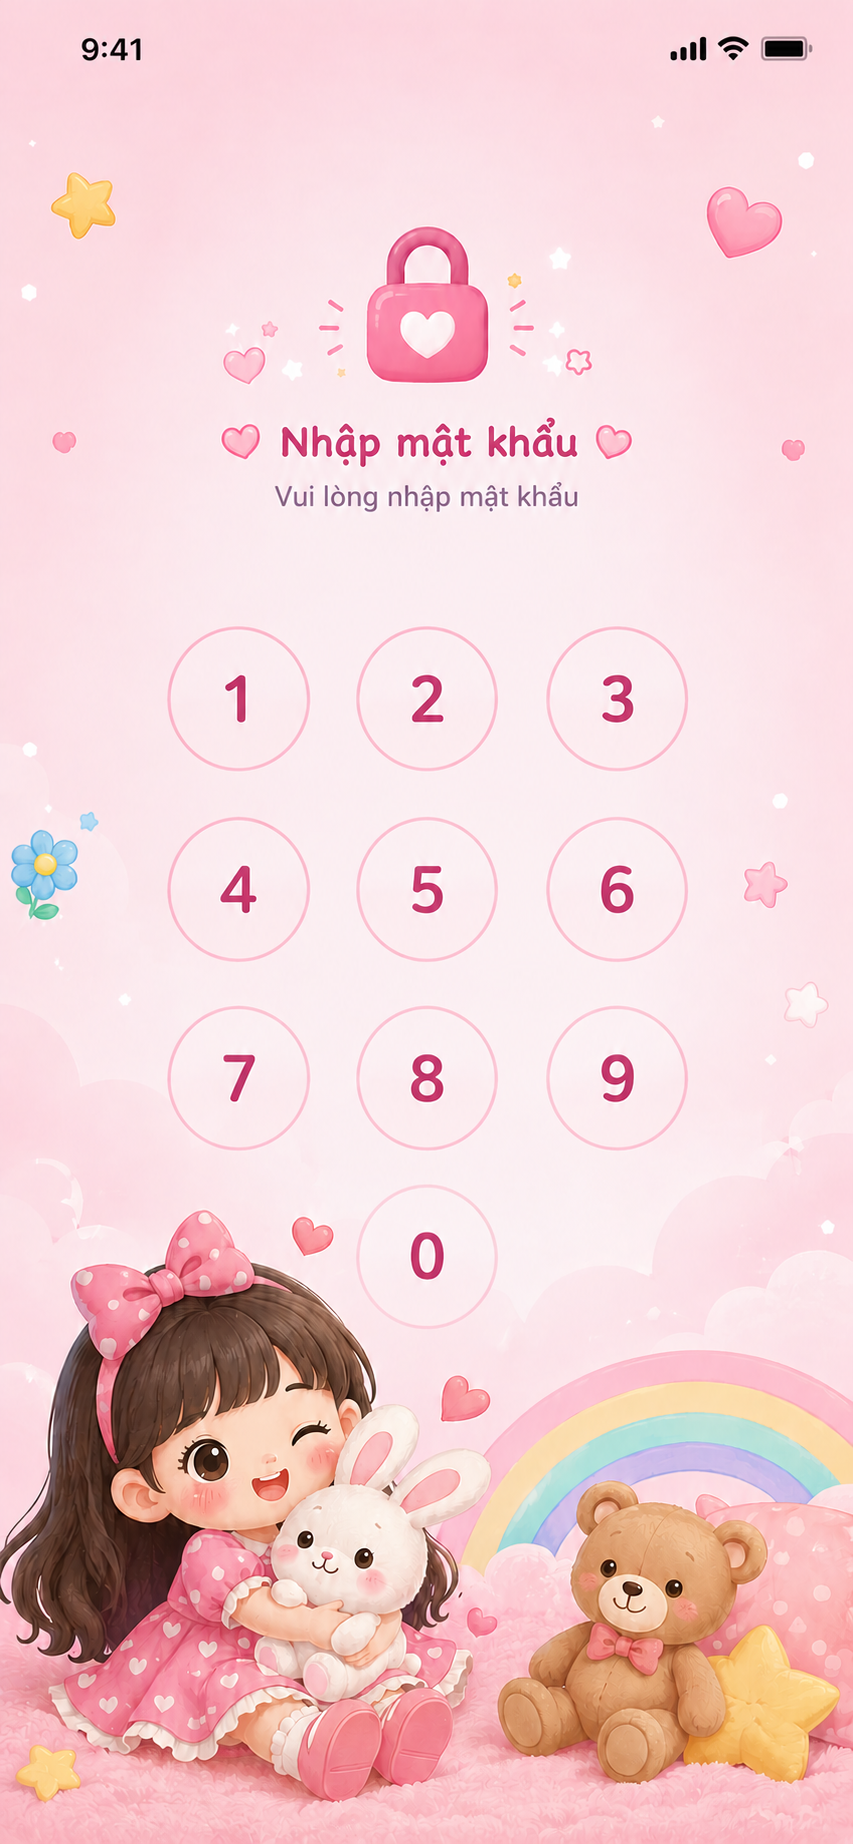
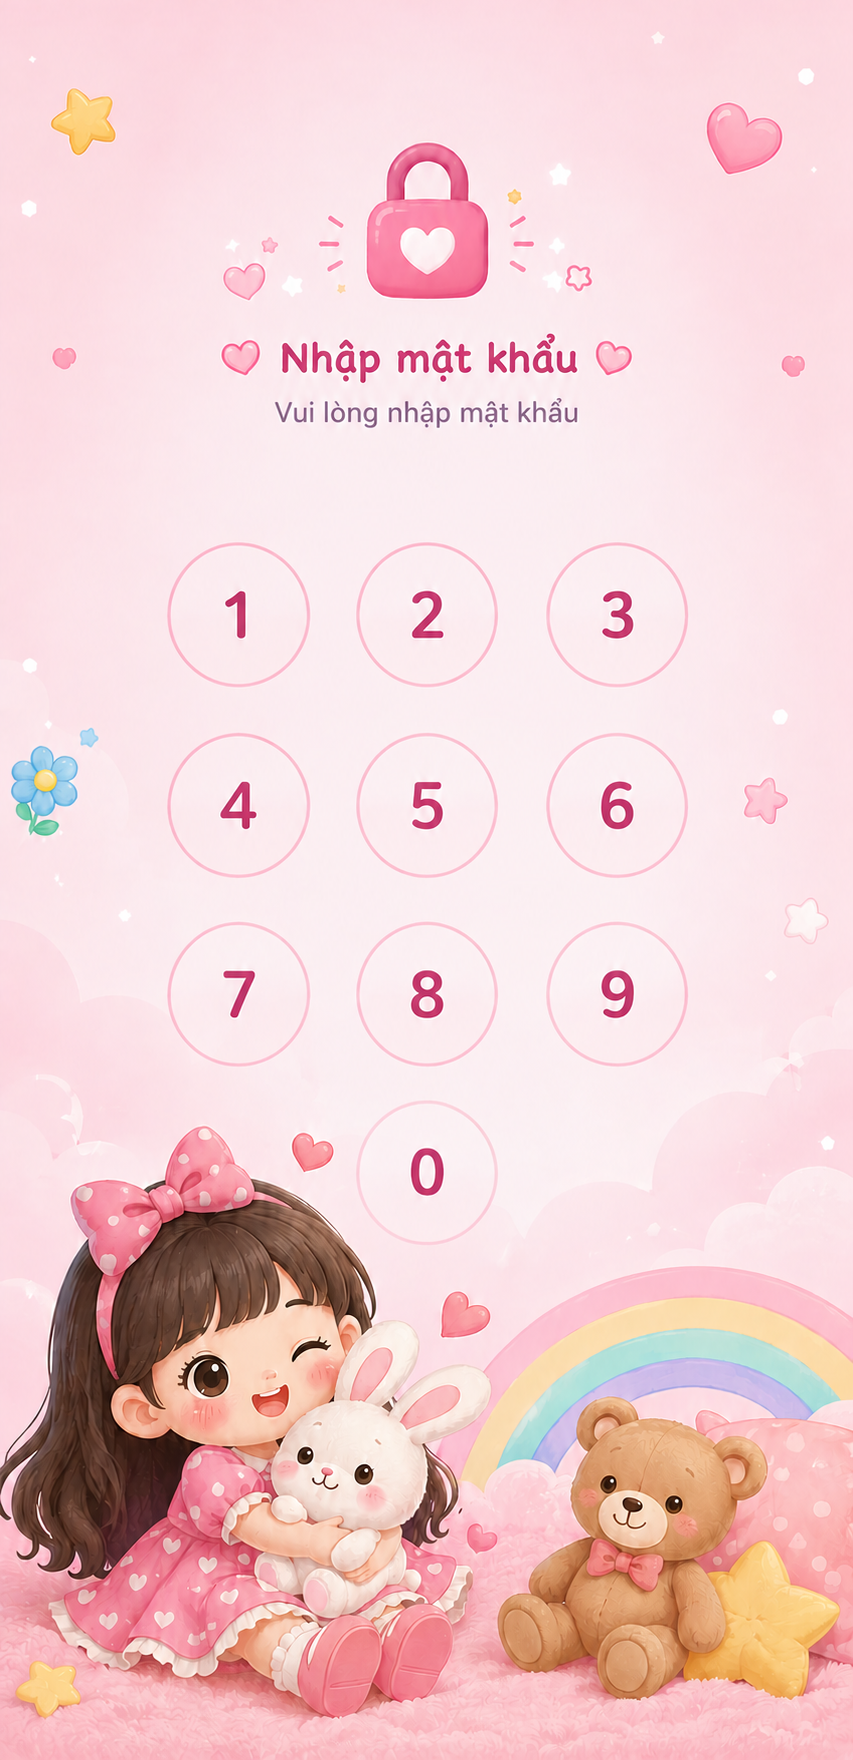
cap nhat lai man hinh khoa

diff --git a/index.html b/index.html
@@ -42,7 +42,7 @@ Error generating stack: `+i.message+`
           20%,60% { transform: translateX(-8px); }
           40%,80% { transform: translateX(8px); }
         }
-      `))}var bp={nam:{image:"pin-bg-nam.png",dotColor:"#d6377e",cancelColor:"#c2467e",coverZone:null,dotsTop:"30%",dotsGap:22,dotSize:18,keyZones:[{k:"1",left:"19%",top:"33.5%",w:"16%",h:"7%"},{k:"2",left:"42%",top:"33.5%",w:"16%",h:"7%"},{k:"3",left:"65%",top:"33.5%",w:"16%",h:"7%"},{k:"4",left:"19%",top:"43.5%",w:"16%",h:"7%"},{k:"5",left:"42%",top:"43.5%",w:"16%",h:"7%"},{k:"6",left:"65%",top:"43.5%",w:"16%",h:"7%"},{k:"7",left:"19%",top:"53.5%",w:"16%",h:"7%"},{k:"8",left:"42%",top:"53.5%",w:"16%",h:"7%"},{k:"9",left:"65%",top:"53.5%",w:"16%",h:"7%"},{k:"0",left:"42%",top:"63.5%",w:"16%",h:"7%"}],delZone:{right:"5%",bottom:"2%",w:"14%",h:"5%"}},meo:{image:"pin-bg-meo.png",dotColor:"#1b4dab",cancelColor:"#1b4dab",coverZone:null,dotsTop:"33.5%",dotsGap:22,dotSize:18,keyZones:[{k:"1",left:"19%",top:"40.5%",w:"16%",h:"7%"},{k:"2",left:"42%",top:"40.5%",w:"16%",h:"7%"},{k:"3",left:"65%",top:"40.5%",w:"16%",h:"7%"},{k:"4",left:"19%",top:"49.5%",w:"16%",h:"7%"},{k:"5",left:"42%",top:"49.5%",w:"16%",h:"7%"},{k:"6",left:"65%",top:"49.5%",w:"16%",h:"7%"},{k:"7",left:"19%",top:"58.5%",w:"16%",h:"7%"},{k:"8",left:"42%",top:"58.5%",w:"16%",h:"7%"},{k:"9",left:"65%",top:"58.5%",w:"16%",h:"7%"},{k:"0",left:"42%",top:"67.5%",w:"16%",h:"7%"}],delZone:{right:"5%",bottom:"2%",w:"14%",h:"5%"}}};function Hp({kid:e,length:n=4,onComplete:t,onCancel:r,errorShake:o}){let[i,l]=(0,u.useState)(""),s=bp[e];(0,u.useEffect)(()=>{l("")},[o]);let a=v=>{if(i.length>=n)return;let y=i+v;l(y),y.length===n&&(setTimeout(()=>t(y),120),setTimeout(()=>l(""),350))},f=()=>l(v=>v.slice(0,-1));return u.default.createElement("div",{style:{position:"relative",width:"100%",height:"100%"}},u.default.createElement("img",{src:s.image,alt:"Nh\u1EADp m\u1EADt kh\u1EA9u",style:{width:"100%",height:"100%",objectFit:"cover",display:"block"}}),r&&u.default.createElement("button",{onClick:r,style:{position:"absolute",left:"4%",top:"4%",background:"rgba(255,255,255,0.7)",border:"none",borderRadius:20,padding:"7px 14px",fontSize:12,fontWeight:800,color:s.cancelColor,cursor:"pointer"}},"\u2190 Quay l\u1EA1i"),s.coverZone&&u.default.createElement("div",{style:{position:"absolute",left:s.coverZone.left,top:s.coverZone.top,width:s.coverZone.width,height:s.coverZone.height,backdropFilter:"blur(8px)",WebkitBackdropFilter:"blur(8px)",background:s.coverZone.color}}),u.default.createElement("div",{className:o?"fb-shake":"",style:{position:"absolute",left:"50%",top:s.dotsTop,transform:"translate(-50%, -50%)",display:"flex",gap:s.dotsGap??20}},Array.from({length:n}).map((v,y)=>u.default.createElement("div",{key:y,style:{width:s.dotSize,height:s.dotSize,borderRadius:"50%",background:y<i.length?s.dotColor:"transparent",border:`2.5px solid ${s.dotColor}`}}))),s.keyZones.map(v=>u.default.createElement("button",{key:v.k,onClick:()=>a(v.k),"aria-label":`So ${v.k}`,style:{position:"absolute",left:v.left,top:v.top,width:v.w,height:v.h,background:"transparent",border:"none",cursor:"pointer",padding:0,borderRadius:"50%"}})),u.default.createElement("button",{onClick:f,"aria-label":"Xoa",style:{position:"absolute",right:s.delZone.right,bottom:s.delZone.bottom,width:s.delZone.w,height:s.delZone.h,background:"transparent",border:"none",cursor:"pointer",padding:0}}),u.default.createElement("style",null,`
+      `))}var bp={nam:{image:"pin-bg-nam.png",dotColor:"#d6377e",cancelColor:"#c2467e",coverZone:null,dotsTop:"22%",dotsGap:22,dotSize:18,keyZones:[{k:"1",left:"18.9%",top:"31.2%",w:"16%",h:"7.5%"},{k:"2",left:"42%",top:"31.1%",w:"16%",h:"7.5%"},{k:"3",left:"65.4%",top:"31.2%",w:"16%",h:"7.5%"},{k:"4",left:"18.9%",top:"42%",w:"16%",h:"7.5%"},{k:"5",left:"42%",top:"42%",w:"16%",h:"7.5%"},{k:"6",left:"65.4%",top:"42%",w:"16%",h:"7.5%"},{k:"7",left:"18.9%",top:"52.7%",w:"16%",h:"7.5%"},{k:"8",left:"42%",top:"52.7%",w:"16%",h:"7.5%"},{k:"9",left:"65.3%",top:"52.7%",w:"16%",h:"7.5%"},{k:"0",left:"42%",top:"62.9%",w:"16%",h:"7.5%"}],delZone:{right:"5%",bottom:"2%",w:"14%",h:"5%"}},meo:{image:"pin-bg-meo.png",dotColor:"#1b4dab",cancelColor:"#1b4dab",coverZone:null,dotsTop:"30%",dotsGap:22,dotSize:18,keyZones:[{k:"1",left:"18.9%",top:"39.2%",w:"15%",h:"7%"},{k:"2",left:"41.8%",top:"39.2%",w:"15%",h:"7%"},{k:"3",left:"64.3%",top:"39.2%",w:"15%",h:"7%"},{k:"4",left:"18.9%",top:"48.6%",w:"15%",h:"7%"},{k:"5",left:"41.8%",top:"48.6%",w:"15%",h:"7%"},{k:"6",left:"64.5%",top:"48.4%",w:"15%",h:"7%"},{k:"7",left:"18.8%",top:"57.9%",w:"15%",h:"7%"},{k:"8",left:"41.8%",top:"57.9%",w:"15%",h:"7%"},{k:"9",left:"64.3%",top:"57.8%",w:"15%",h:"7%"},{k:"0",left:"41.9%",top:"66.6%",w:"15%",h:"7%"}],delZone:{right:"5%",bottom:"2%",w:"14%",h:"5%"}}};function Hp({kid:e,length:n=4,onComplete:t,onCancel:r,errorShake:o}){let[i,l]=(0,u.useState)(""),s=bp[e];(0,u.useEffect)(()=>{l("")},[o]);let a=v=>{if(i.length>=n)return;let y=i+v;l(y),y.length===n&&(setTimeout(()=>t(y),120),setTimeout(()=>l(""),350))},f=()=>l(v=>v.slice(0,-1));return u.default.createElement("div",{style:{position:"relative",width:"100%",height:"100%"}},u.default.createElement("img",{src:s.image,alt:"Nh\u1EADp m\u1EADt kh\u1EA9u",style:{width:"100%",height:"100%",objectFit:"cover",display:"block"}}),r&&u.default.createElement("button",{onClick:r,style:{position:"absolute",left:"4%",top:"4%",background:"rgba(255,255,255,0.7)",border:"none",borderRadius:20,padding:"7px 14px",fontSize:12,fontWeight:800,color:s.cancelColor,cursor:"pointer"}},"\u2190 Quay l\u1EA1i"),s.coverZone&&u.default.createElement("div",{style:{position:"absolute",left:s.coverZone.left,top:s.coverZone.top,width:s.coverZone.width,height:s.coverZone.height,backdropFilter:"blur(8px)",WebkitBackdropFilter:"blur(8px)",background:s.coverZone.color}}),u.default.createElement("div",{className:o?"fb-shake":"",style:{position:"absolute",left:"50%",top:s.dotsTop,transform:"translate(-50%, -50%)",display:"flex",gap:s.dotsGap??20}},Array.from({length:n}).map((v,y)=>u.default.createElement("div",{key:y,style:{width:s.dotSize,height:s.dotSize,borderRadius:"50%",background:y<i.length?s.dotColor:"transparent",border:`2.5px solid ${s.dotColor}`}}))),s.keyZones.map(v=>u.default.createElement("button",{key:v.k,onClick:()=>a(v.k),"aria-label":`So ${v.k}`,style:{position:"absolute",left:v.left,top:v.top,width:v.w,height:v.h,background:"transparent",border:"none",cursor:"pointer",padding:0,borderRadius:"50%"}})),u.default.createElement("button",{onClick:f,"aria-label":"Xoa",style:{position:"absolute",right:s.delZone.right,bottom:s.delZone.bottom,width:s.delZone.w,height:s.delZone.h,background:"transparent",border:"none",cursor:"pointer",padding:0}}),u.default.createElement("style",null,`
         .fb-shake { animation: fbshake 0.4s; }
         @keyframes fbshake {
           0%,100% { transform: translateX(-50%); }